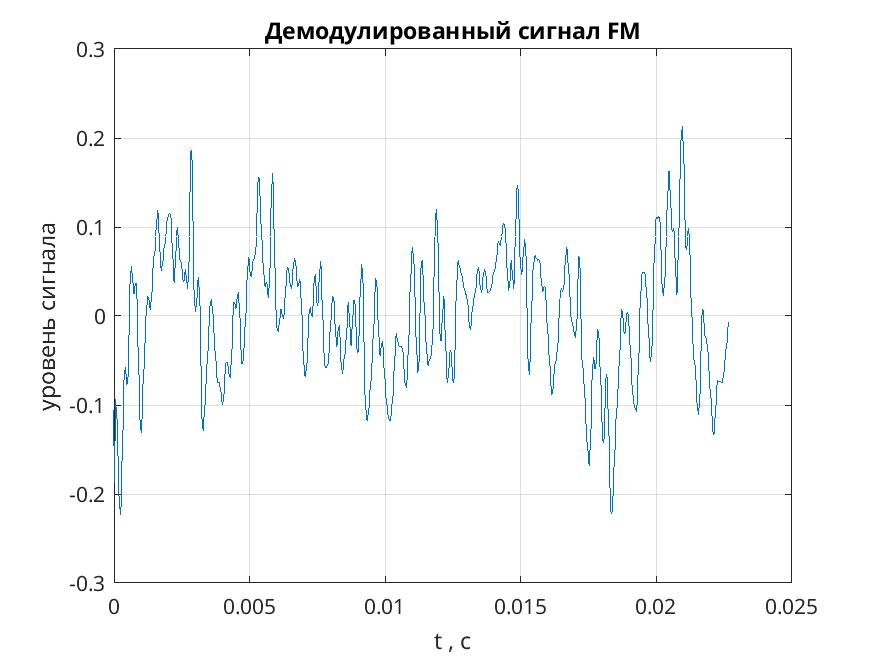
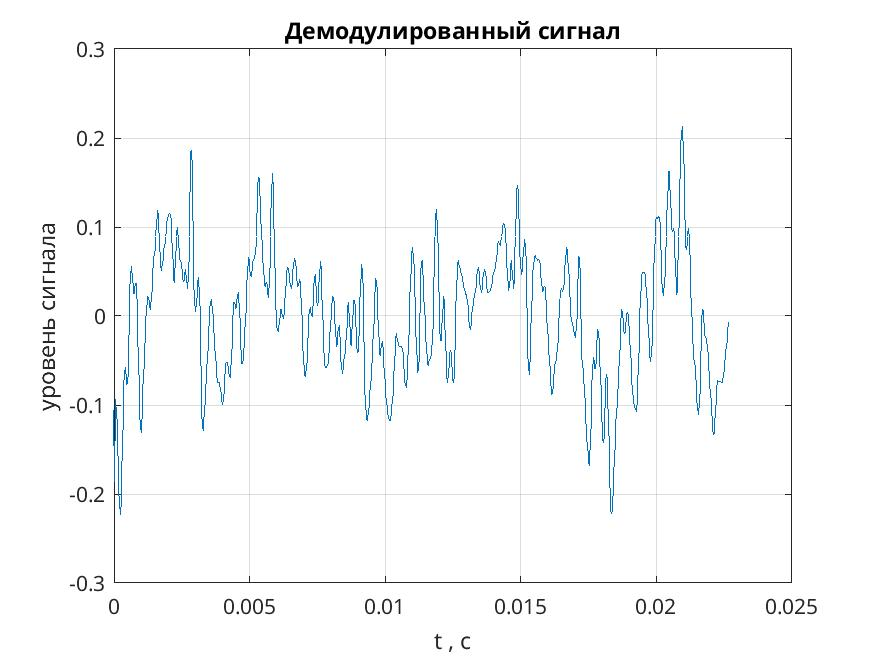
add generator test data for fftw

Changed region(s): [[0.3086, 0.0305, 0.7406, 0.0915]]

diff --git a/genTestDataFftw.m b/genTestDataFftw.m
@@ -1,0 +1,38 @@
+close all;
+clear all;
+
+Fd = 1000;
+F = 100;
+T = 1/Fd;
+N = 2000;
+
+t=0:T:(N*T-T);
+
+in = t.*t.*exp(1i*t.*t*F);
+
+out = fft(in);
+
+fid = fopen('/home/maksim/work/w_qt/Demodulation/test/config/testDataFftwFin', 'wb');
+for i=1:N
+    fwrite(fid,real(in(i)),'float');
+    fwrite(fid,imag(in(i)),'float');
+end
+fid = fopen('/home/maksim/work/w_qt/Demodulation/test/config/testDataFftwFout', 'wb');
+for i=1:N
+    fwrite(fid,real(out(i)),'float');
+    fwrite(fid,imag(out(i)),'float');
+end
+
+inn = out;
+
+fid = fopen('/home/maksim/work/w_qt/Demodulation/test/config/testDataFftwBin', 'wb');
+for i=1:N
+    fwrite(fid,real(inn(i)),'float');
+    fwrite(fid,imag(inn(i)),'float');
+end
+outt = ifft(inn);
+fid = fopen('/home/maksim/work/w_qt/Demodulation/test/config/testDataFftwBout', 'wb');
+for i=1:N
+    fwrite(fid,real(outt(i)),'float');
+    fwrite(fid,imag(outt(i)),'float');
+end

diff --git a/genTestDataFM.m b/genTestDataFM.m
@@ -39,7 +39,7 @@ figure (2);
     grid on;
     title ('Спектр');
     xlabel ("f, Гц");
-    ylabel("уровень сигнала");
+    ylabel("уровень спектра");
     saveas(gcf, 'jpg./Спектр FM-сигнала', 'jpg')
 
 %%
@@ -76,7 +76,7 @@ end
 figure (3)
     plot (t, z_M);
     grid on;
-    title ('Демодулированный сигнал FM');
+    title ('Демодулированный сигнал');
     xlabel ("t , c");
     ylabel("уровень сигнала");
     saveas(gcf, 'jpg./Демодулированный сигнал FM.jpg', 'jpg')
